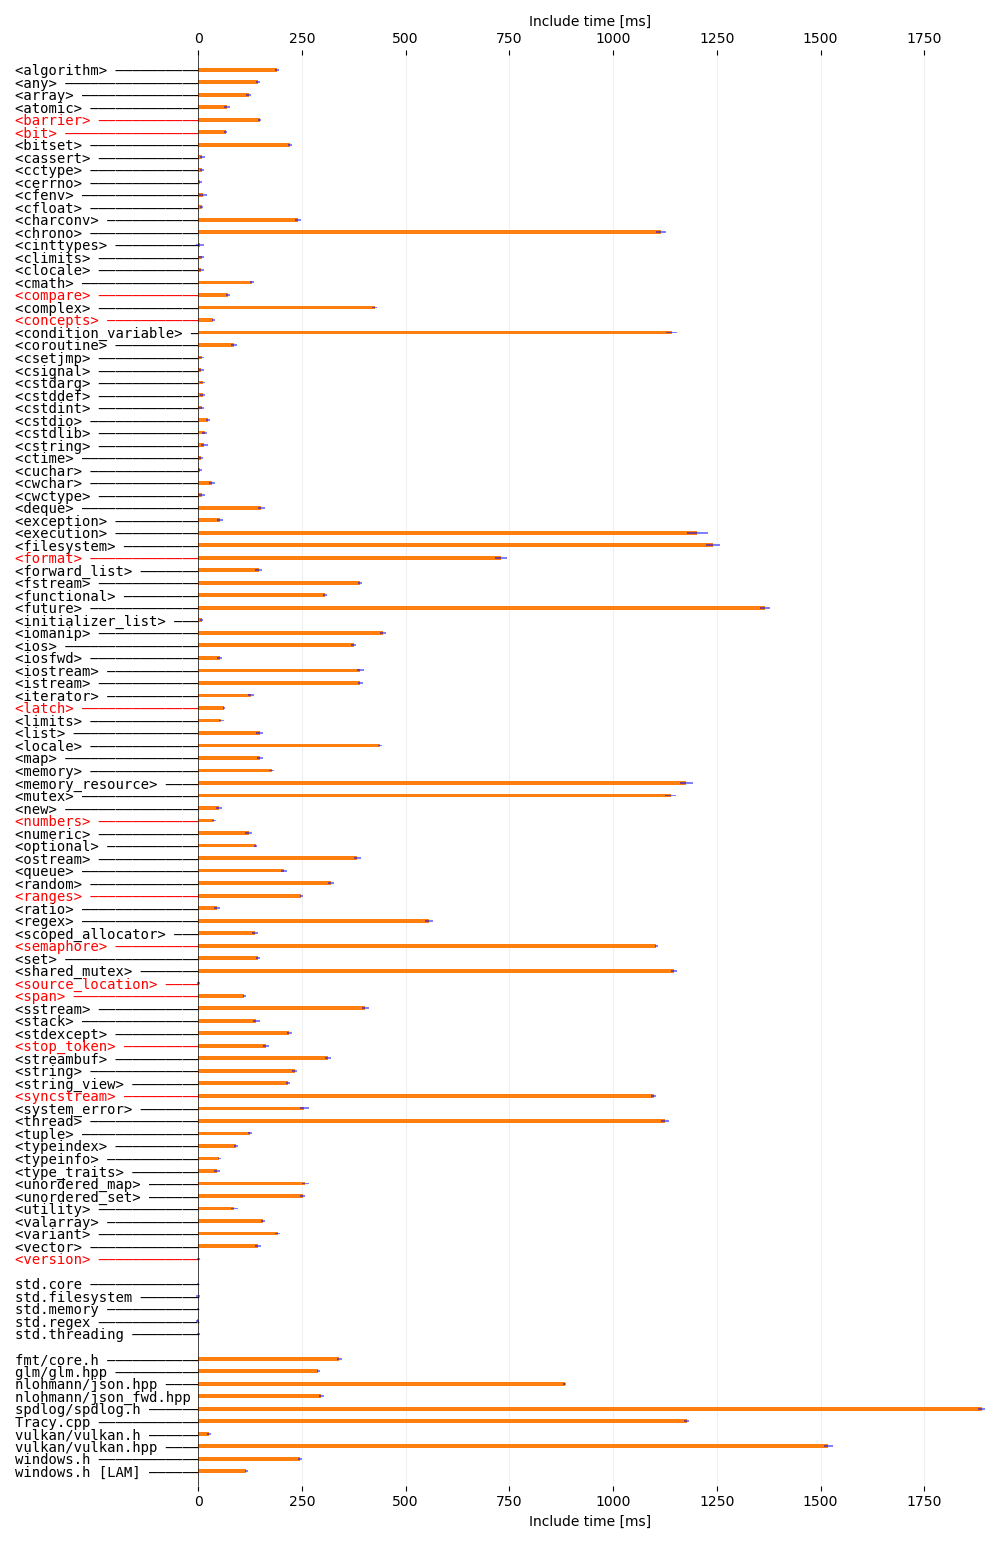
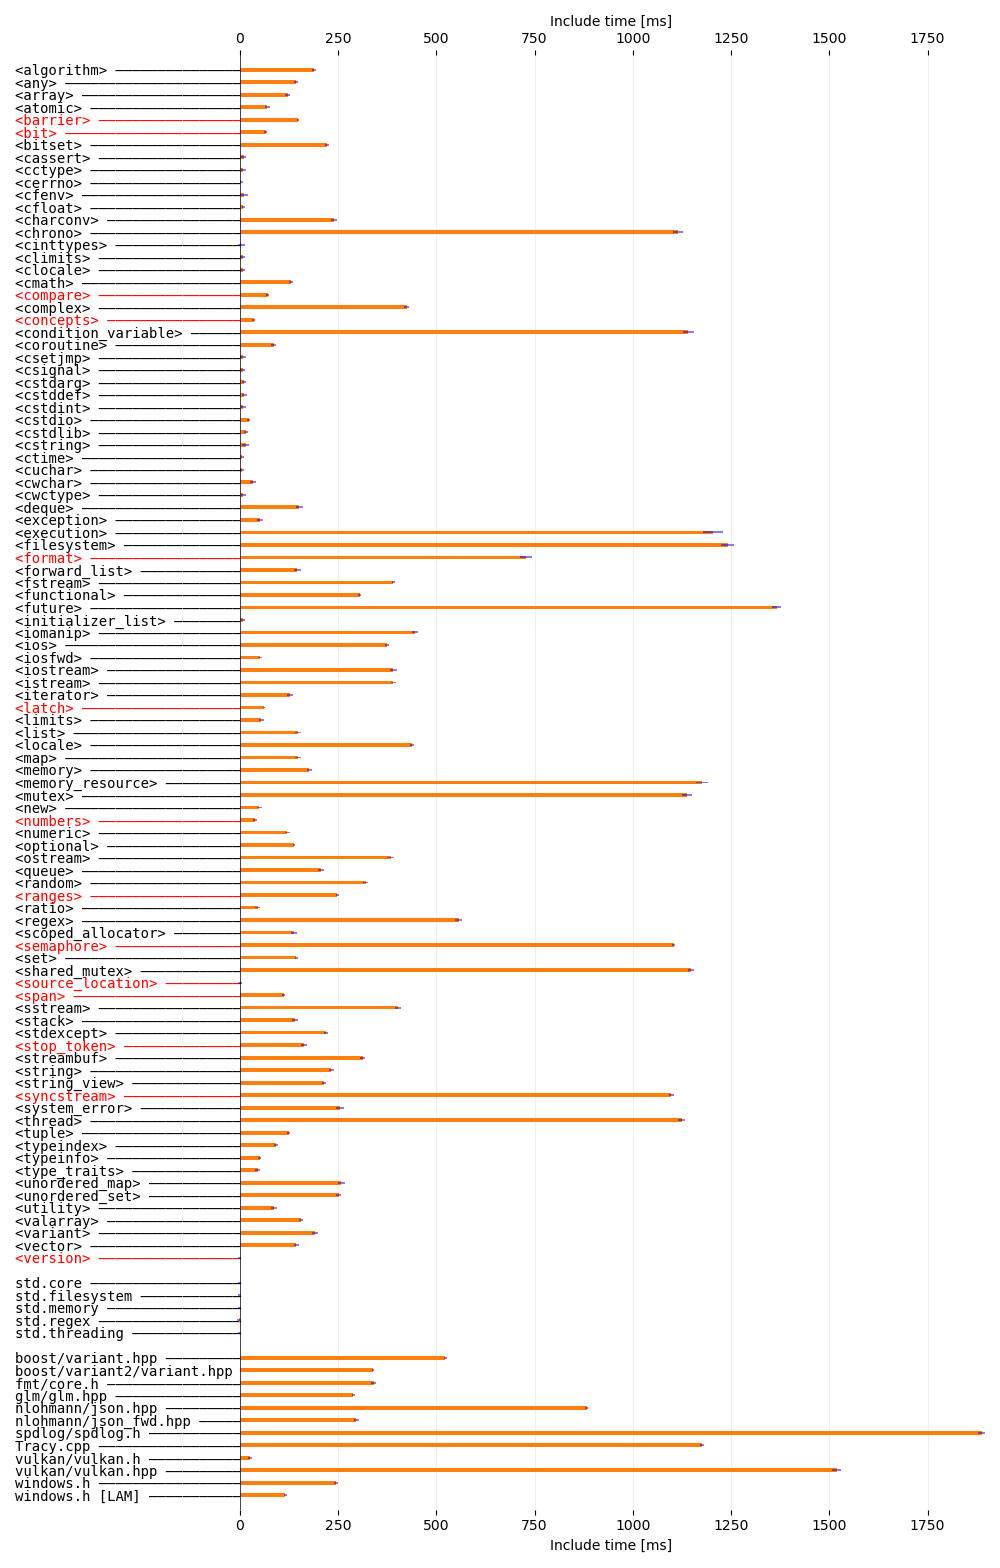
added boost variant and variant2. Fixes #1, #2

diff --git a/plot.py b/plot.py
@@ -78,7 +78,9 @@ def get_pretty_name(description):
          "nl_json_fwd": "nlohmann/json_fwd.hpp",
          "glm": "glm/glm.hpp",
          "vulkan": "vulkan/vulkan.h",
-         "vulkanhpp": "vulkan/vulkan.hpp"
+         "vulkanhpp": "vulkan/vulkan.hpp",
+         "boost_variant": "boost/variant.hpp",
+         "boost_variant2": "boost/variant2/variant.hpp"
          }
     if description in replacements.keys():
         return replacements[description]
@@ -141,9 +143,6 @@ def main_plot():
     labels = get_labels(raw_labels)
     positions = get_positions(categories, file_data)
 
-    print("baseline std", file_data["special"]["baseline"].std)
-    print("baseline std", file_data["std"]["algorithm"].std)
-
     worst_data = np.empty([0, 2])
     for category in categories:
         worst_data = np.append(worst_data, get_worst(category, file_data), axis=0)
@@ -164,7 +163,7 @@ def main_plot():
             ax.get_yticklabels()[i].set_color("red")
 
     ax.grid(axis='x', alpha=0.2)
-    ax.get_yaxis().set_tick_params(pad=130)
+    ax.get_yaxis().set_tick_params(pad=160)
     ax.get_yaxis().set_tick_params(length=0)
     ax.set_axisbelow(True)
     ax.spines["right"].set_visible(False)

diff --git a/build_project/template.cpp b/build_project/template.cpp
@@ -416,16 +416,20 @@ import std.threading;
 import std.core;
 #endif
 
+#ifdef i_boost_asio
+#include <boost/asio.hpp>
+#endif
+
+#ifdef i_boost_json
+#include <boost/json/src.hpp>
+#endif
+
+#ifdef i_boost_variant
+#include <boost/variant.hpp>
+#endif
+
 #ifdef i_boost_variant2
 #include <boost/variant2/variant.hpp>
-#endif
-
-#ifdef i_boost_optional
-#include <boost/optional/optional.hpp>
-#endif
-
-#ifdef i_boost_any
-#include <boost/any.hpp>
 #endif
 
 
